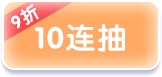
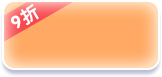
lakkey 160804:1849

Changed region(s): [[0.216, 0.3117, 0.7716, 0.6753]]

diff --git a/sources/view/panel/GashaponPanel.cpp b/sources/view/panel/GashaponPanel.cpp
@@ -48,6 +48,8 @@ bool GashaponPanel::init() {
         this->setTouchMode(kCCTouchesOneByOne);
         this->setTouchSwallowEnabled(true);
         
+        this->update_content();
+        
         return true;
     }
     else {
@@ -59,7 +61,7 @@ void GashaponPanel::onEnter() {
     CCLayer::onEnter();
     
     CCNotificationCenter* nc = CCNotificationCenter::sharedNotificationCenter();
-    nc->addObserver(this, SEL_CallFuncO(&GashaponPanel::nc_take_energy_301), "HTTP_FINISHED_301", NULL);
+//    nc->addObserver(this, SEL_CallFuncO(&GashaponPanel::nc_take_energy_301), "HTTP_FINISHED_301", NULL);
     
     this->scheduleOnce(SEL_SCHEDULE(&GashaponPanel::keyBackStatus), .8f);
 }
@@ -84,6 +86,93 @@ bool GashaponPanel::ccTouchBegan(cocos2d::CCTouch *pTouch, cocos2d::CCEvent *pEv
 }
 
 #pragma mark - inner
+
+void GashaponPanel::update_content() {
+    _panel->removeAllChildrenWithCleanup(true);
+    CCSize panelSize = _panel->getContentSize();
+    
+    CCArray* templates = DATA->getOperation()->getGashaponTemplate();
+    int count = templates->count();
+    for (int i = 0; i < count; i++) {
+        CCSprite* sptPlate = CCSprite::create("pic/panel/gashapon/gashapon_plate.png");
+        float width = panelSize.width * 0.5 + panelSize.width * 0.28 * (i % 3 - 1);
+        float height = panelSize.height * (0.82 - i / 3 * 0.24);
+        sptPlate->setPosition(ccp(width, height));
+        _panel->addChild(sptPlate);
+        // 底框
+        CCDictionary* item = (CCDictionary*)templates->objectAtIndex(i);
+        string uri = item->valueForKey("uri")->getCString();
+        CCString* filePath = DATA->clothes_icon_path_with_uri(uri);
+        CCSprite* icon = CCSprite::create(filePath->getCString());
+        icon->setScale(0.6);
+        icon->setPosition(ccp(sptPlate->getContentSize().width * 0.5, sptPlate->getContentSize().height * 0.5));
+        sptPlate->addChild(icon);
+        // price
+        CCSprite* sptPrice1 = CCSprite::create("pic/panel/gashapon/gashapon_price.png");
+        CCSprite* sptPrice2 = CCSprite::create("pic/panel/gashapon/gashapon_price.png");
+        sptPrice2->setScale(DISPLAY->btn_scale());
+        CCMenuItem* btnExcharge = CCMenuItemSprite::create(sptPrice1, sptPrice2);
+        CCMenu* menu = CCMenu::createWithItem(btnExcharge);
+        menu->setPosition(ccp(sptPlate->getContentSize().width * 0.5, -10));
+        sptPlate->addChild(menu);
+        
+        CCInteger* price = (CCInteger*)item->objectForKey("price");
+        CCString* strPrice = CCString::createWithFormat("%d", price->getValue());
+        CCLabelTTF* lbl1 = CCLabelTTF::create(strPrice->getCString(), DISPLAY->fangzhengFont(), 16.f);
+        lbl1->setPosition(ccp(sptPrice1->getContentSize().width * 0.6, sptPrice1->getContentSize().height * 0.65));
+        lbl1->setAnchorPoint(ccp(1, 0.5));
+        btnExcharge->addChild(lbl1);
+        
+        CCSprite* sptPiece = CCSprite::create("pic/panel/gashapon/piece.png");
+        sptPiece->setPosition(ccp(sptPrice1->getContentSize().width * 0.72, lbl1->getPositionY()));
+        sptPiece->setScale(0.9);
+        btnExcharge->addChild(sptPiece);
+        
+        CCLabelTTF* lbl2 = CCLabelTTF::create("点击兑换", DISPLAY->fangzhengFont(), 15.5f);
+        lbl2->setPosition(ccp(sptPrice1->getContentSize().width * 0.5, sptPrice1->getContentSize().height * 0.35));
+        btnExcharge->addChild(lbl2);
+        
+        // 获得碎片
+        CCSprite* sptTxtBottom = CCSprite::create("pic/panel/gashapon/gashapon_bar.png");
+        sptTxtBottom->setPosition(ccp(panelSize.width * 0.62, panelSize.height * 0.4));
+        _panel->addChild(sptTxtBottom);
+        CCSprite* sptTxt = CCSprite::create("pic/panel/gashapon/gashapon_txt.png");
+        sptTxt->setPosition(ccp(sptTxtBottom->getContentSize().width * 0.4, sptTxtBottom->getContentSize().height * 0.5));
+        sptTxtBottom->addChild(sptTxt);
+        
+        
+//        CCSprite* sptPiece2 = CCSprite::create("pic/panel/gashapon/piece.png");
+//        sptPiece2->setPosition(ccp(lblPiece->getPositionX() + lblPiece->getContentSize().width, lblPiece->getPositionY()));
+//        sptTxtBottom->addChild(sptPiece2);
+        
+        // free
+        CCSprite* free1 = CCSprite::create("pic/panel/gashapon/gashapon_btn_free.png");
+        CCSprite* free2 = CCSprite::create("pic/panel/gashapon/gashapon_btn_free.png");
+        free2->setScale(DISPLAY->btn_scale());
+        CCMenuItem* btnFree = CCMenuItemSprite::create(free1, free2);
+        btnFree->setPosition(ccp(panelSize.width * 0.265, panelSize.height * 0.22));
+        
+        // 10
+        CCSprite* mult1 = CCSprite::create("pic/panel/gashapon/gashapon_btn_mult.png");
+        CCSprite* mult2 = CCSprite::create("pic/panel/gashapon/gashapon_btn_mult.png");
+        mult2->setScale(DISPLAY->btn_scale());
+        CCMenuItem* btnMult = CCMenuItemSprite::create(mult1, mult2);
+        btnMult->setPosition(ccp(panelSize.width * 0.735, panelSize.height * 0.22));
+        
+        CCMenu* menuTry = CCMenu::create(btnFree, btnMult, NULL);
+        menuTry->ignoreAnchorPointForPosition(false);
+        _panel->addChild(menuTry);
+        
+        // 状态
+        string id = item->valueForKey("id")->getCString();
+        if (DATA->getOperation()->has_owned_gashapon(id)) {
+            
+        }
+        else {
+            
+        }
+    }
+}
 
 void GashaponPanel::remove() {
     this->removeFromParentAndCleanup(true);

diff --git a/sources/manager/DataManager.cpp b/sources/manager/DataManager.cpp
@@ -80,34 +80,34 @@ CCString* DataManager::clothes_icon_path_with_id(int clothesId) {
     CCString* rtn = NULL;
     int part = clothesId / 10000;
     if (part == 1) {
-        rtn = CCString::createWithFormat("pic/clothesScene/icon/1toufa/%d.png", clothesId);
+        rtn = CCString::createWithFormat("pic/clothesScene/icon/1toufa/icon%d.png", clothesId);
     }
     else if (part == 2) {
-        rtn = CCString::createWithFormat("pic/clothesScene/icon/2waitao/%d.png", clothesId);
+        rtn = CCString::createWithFormat("pic/clothesScene/icon/2waitao/icon%d.png", clothesId);
     }
     else if (part == 3) {
-        rtn = CCString::createWithFormat("pic/clothesScene/icon/3shangyi/%d.png", clothesId);
+        rtn = CCString::createWithFormat("pic/clothesScene/icon/3shangyi/icon%d.png", clothesId);
     }
     else if (part == 4) {
-        rtn = CCString::createWithFormat("pic/clothesScene/icon/4kuzi/%d.png", clothesId);
+        rtn = CCString::createWithFormat("pic/clothesScene/icon/4kuzi/icon%d.png", clothesId);
     }
     else if (part == 5) {
-        rtn = CCString::createWithFormat("pic/clothesScene/icon/5wazi/%d.png", clothesId);
+        rtn = CCString::createWithFormat("pic/clothesScene/icon/5wazi/icon%d.png", clothesId);
     }
     else if (part == 6) {
-        rtn = CCString::createWithFormat("pic/clothesScene/icon/6xiezi/%d.png", clothesId);
+        rtn = CCString::createWithFormat("pic/clothesScene/icon/6xiezi/icon%d.png", clothesId);
     }
     else if (part == 7) {
-        rtn = CCString::createWithFormat("pic/clothesScene/icon/7shipin/%d.png", clothesId);
+        rtn = CCString::createWithFormat("pic/clothesScene/icon/7shipin/icon%d.png", clothesId);
     }
     else if (part == 8) {
-        rtn = CCString::createWithFormat("pic/clothesScene/icon/8bao/%d.png", clothesId);
+        rtn = CCString::createWithFormat("pic/clothesScene/icon/8bao/icon%d.png", clothesId);
     }
     else if (part == 9) {
-        rtn = CCString::createWithFormat("pic/clothesScene/icon/9zhuangrong/%d.png", clothesId);
+        rtn = CCString::createWithFormat("pic/clothesScene/icon/9zhuangrong/icon%d.png", clothesId);
     }
     else if (part == 10) {
-        rtn = CCString::createWithFormat("pic/clothesScene/icon/10texiao/%d.png", clothesId);
+        rtn = CCString::createWithFormat("pic/clothesScene/icon/10texiao/icon%d.png", clothesId);
     }
     else {
         rtn = CCString::create("pic/unknown.png");
@@ -355,7 +355,8 @@ void DataManager::handle_protocol(int cid, Value content) {
         } break;
             
         case 306: {
-
+            _operation->init_gashapon_template(content["template"]);
+            _operation->replace_gashapon_user(content["gashapon"]);
         } break;
             
         case 200: {

diff --git a/sources/model/OperationComp.h b/sources/model/OperationComp.h
@@ -17,38 +17,6 @@
 USING_NS_CC;
 USING_NS_CC_EXT;
 using namespace CSJson;
-/*
-class PurchaseAchievementItem : public CCObject
-{
-public: // Export
-    string          id;
-    int             goal;
-    string          uri;
-    
-    inline void init_with_json(Value json) {
-        if (json.type() == nullValue) {
-            CCLOG("PurchaseAchievementItem::init_with_json() json object error.");
-            return;
-        }
-        
-        id = json["id"].asString();
-        goal = json["goal"].asInt();
-        uri = json["uri"].asString();
-    }
-    
-    inline void print_self() {
-        CCLOG("    PurchaseAchievementItem:");
-        CCLOG("        id = %s", id.c_str());
-        CCLOG("        goal = %d", goal);
-        CCLOG("        uri = %s", uri.c_str());
-    }
-    
-public:
-    ~PurchaseAchievementItem() {}
-    CREATE_FUNC(PurchaseAchievementItem);
-    virtual bool init() { return true; }
-};
-*/
 
 // ---------------------------------------------------
 
@@ -60,20 +28,22 @@ class OperationComp : public CCObject
     // 累计充值模版数组
     SYNTHESIZE_RETAIN_READONLY(CCArray*, _purchaseAchievementTemplate, PurchaseAchievementTemplate);
     // 累计充值玩家数据
-    SYNTHESIZE_RETAIN_READONLY(CCDictionary*, _purchaseAchievementUser, PurchaseAchievementUser);
+    SYNTHESIZE_RETAIN_READONLY(CCArray*, _purchaseAchievementUser, PurchaseAchievementUser);
     
+    // 扭蛋模版数组
+    SYNTHESIZE_RETAIN_READONLY(CCArray*, _gashaponTemplate, GashaponTemplate);
+    // 扭蛋玩家数据
+    SYNTHESIZE_RETAIN_READONLY(CCArray*, _gashaponUser, GashaponUser);
     // 玩家拥有碎片
     SYNTHESIZE_READONLY(int, _piece, Piece);
     // 玩家上次免费抽取的时间戳
     SYNTHESIZE_READONLY(unsigned long, _freePoint, FreePoint);
-    // 扭蛋模版数组
-    SYNTHESIZE_RETAIN_READONLY(CCArray*, _gashaponTemplate, GashaponTemplate);
-    // 扭蛋玩家数据
-    SYNTHESIZE_RETAIN_READONLY(CCDictionary*, _gashaponUser, GashaponUser);
     
 public:
     bool has_init_purchase_achievement_template();
     bool has_init_gashapon_template();
+    bool has_taken_pAchievement(string& id);
+    bool has_owned_gashapon(string& id);
     
 public: // Inport
     void init_purchase_achievement_template(Value json);

diff --git a/sources/model/OperationComp.cpp b/sources/model/OperationComp.cpp
@@ -19,6 +19,30 @@ bool OperationComp::has_init_gashapon_template() {
     return (_gashaponTemplate != NULL);
 }
 
+bool OperationComp::has_taken_pAchievement(string &id) {
+    CCObject* pObj = NULL;
+    CCARRAY_FOREACH(_purchaseAchievementUser, pObj) {
+        CCString* strId = (CCString*)pObj;
+        if (strId->compare(id.c_str()) == 0) {
+            return true;
+        }
+    }
+    
+    return false;
+}
+
+bool OperationComp::has_owned_gashapon(string &id) {
+    CCObject* pObj = NULL;
+    CCARRAY_FOREACH(_gashaponUser, pObj) {
+        CCString* strId = (CCString*)pObj;
+        if (strId->compare(id.c_str()) == 0) {
+            return true;
+        }
+    }
+    
+    return false;
+}
+
 #pragma mark - Inport
 
 void OperationComp::init_purchase_achievement_template(Value json) {
@@ -36,7 +60,7 @@ void OperationComp::init_purchase_achievement_template(Value json) {
     AppUtil::sort_string_array(keys);
     CCArray* arr = CCArray::create();
     CCObject* pObj = NULL;
-    CCARRAY_FOREACH(arr, pObj) {
+    CCARRAY_FOREACH(keys, pObj) {
         CCString* key = (CCString*)pObj;
         arr->addObject(dic->objectForKey(key->getCString()));
     }
@@ -50,7 +74,7 @@ void OperationComp::replace_purchase_achievement(Value json) {
     }
     
     this->setPurchasedTotal(json["total"].asInt());
-    this->setPurchaseAchievementUser(AppUtil::dictionary_with_json(json["pAchievement"]));
+    this->setPurchaseAchievementUser(AppUtil::array_with_json(json["pAchievement"]));
 }
 
 void OperationComp::init_gashapon_template(Value json) {
@@ -68,7 +92,7 @@ void OperationComp::init_gashapon_template(Value json) {
     AppUtil::sort_string_array(keys);
     CCArray* arr = CCArray::create();
     CCObject* pObj = NULL;
-    CCARRAY_FOREACH(arr, pObj) {
+    CCARRAY_FOREACH(keys, pObj) {
         CCString* key = (CCString*)pObj;
         arr->addObject(dic->objectForKey(key->getCString()));
     }
@@ -83,7 +107,7 @@ void OperationComp::replace_gashapon_user(Value json) {
     
     this->setPiece(json["piece"].asInt());
     this->setFreePoint(json["free_point"].asInt64());
-    this->setGashaponUser(AppUtil::dictionary_with_json(json["owned"]));
+    this->setGashaponUser(AppUtil::array_with_json(json["owned"]));
 }
 
 #pragma mark - Supper

diff --git a/sources/view/mainScene/MainScene.cpp b/sources/view/mainScene/MainScene.cpp
@@ -129,7 +129,7 @@ void MainScene::onEnter(){
     nc->addObserver(this, SEL_CallFuncO(&MainScene::update_news_status), "UPDATE_NEWS_STATUS", NULL);
     // 从别处调用签到
     nc->addObserver(this, SEL_CallFuncO(&MainScene::qiandaoCallBack), "NEED_SHOW_SIGNIN7", NULL);
-    nc->addObserver(this, SEL_CallFuncO(&MainScene::nc_gashapon_info_306), "NEED_SHOW_GASHAPON", NULL);
+    nc->addObserver(this, SEL_CallFuncO(&MainScene::gashaponCallBack), "NEED_SHOW_GASHAPON", NULL);
     
     nc->addObserver(this, SEL_CallFuncO(&MainScene::check_begin_position), "TOUCH_BEGIN", NULL);
     nc->addObserver(this, SEL_CallFuncO(&MainScene::change_position), "DRAGING", NULL);

diff --git a/sources/extend_define.h b/sources/extend_define.h
@@ -9,9 +9,9 @@
 #ifndef extend_define_h
 #define extend_define_h
 
-#define SYNTHESIZE_READONLY(varType, varName, funName)\
-protected: varType varName;\
-public: virtual varType get##funName(void) const { return varName; }\
+#define SYNTHESIZE_READONLY(varType, varName, funName) \
+protected: varType varName; \
+public: virtual varType get##funName(void) const { return varName; } \
 private: virtual void set##funName(varType var){ varName = var; }
 
 

diff --git a/sources/view/panel/GashaponPanel.h b/sources/view/panel/GashaponPanel.h
@@ -34,6 +34,7 @@ public:
     virtual bool ccTouchBegan(CCTouch *pTouch, CCEvent *pEvent);
     
 private:
+    void update_content();
     void remove();
     
     void on_purchase();
